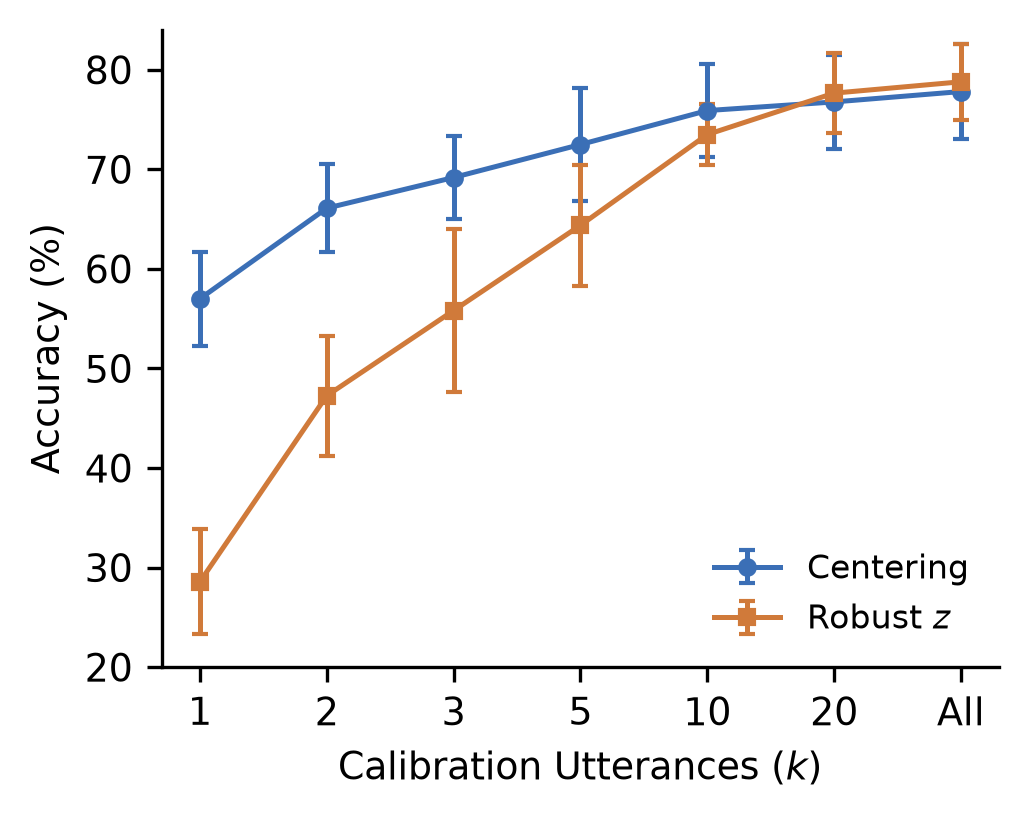
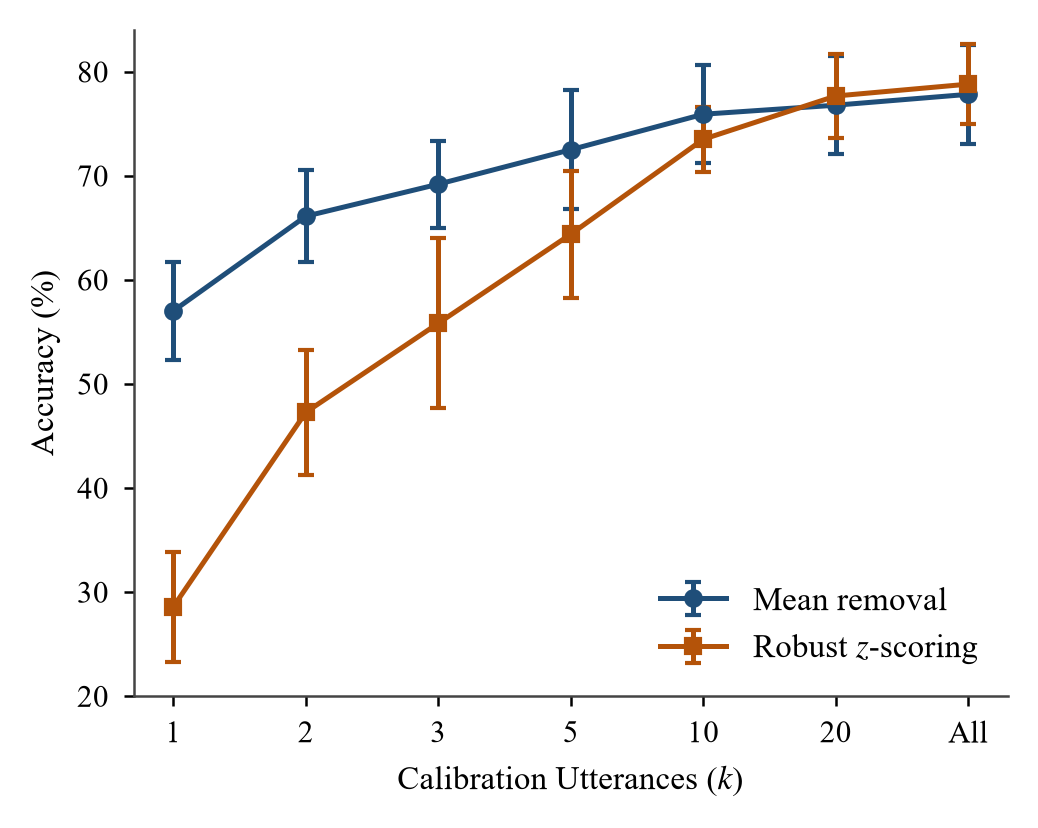
Relabel the calibration legend to the manuscript's vocabulary
The paper calls these operations "mean removal" and "robust z-scoring"; the
figure legend still said "Centering" and "Robust z". Legend only - no data,
style, or layout change, and the overlap check passes.

Changed region(s): [[0.0311, 0.0305, 0.964, 0.9768]]

diff --git a/scripts/make_taslp_figures.py b/scripts/make_taslp_figures.py
@@ -55,7 +55,7 @@ def mean_pct(runs, key="test_acc"):
 
 
 def fig_calibration():
-    """Single-panel deployment calibration: centering vs robust z."""
+    """Single-panel deployment calibration: mean removal vs robust z-scoring."""
     cd = load(os.path.join(RUNS, "fair_deploy_center_only", "fair_deploy.json"))["curve"]
     rd = load(os.path.join(RUNS, "fair_deploy_robust_z", "fair_deploy.json"))["curve"]
     ks = ["1", "2", "3", "5", "10", "20", "all"]
@@ -64,9 +64,9 @@ def fig_calibration():
     ro = [100 * rd[k][0] for k in ks]; re = [100 * rd[k][1] for k in ks]
     fig, ax = plt.subplots(figsize=(3.5, 2.8))
     ax.errorbar(kx, co, yerr=ce, fmt="-o", color=EMA_C, ms=3.5, lw=1.2,
-                capsize=2, label="Centering")
+                capsize=2, label="Mean removal")
     ax.errorbar(kx, ro, yerr=re, fmt="-s", color=ACO_C, ms=3.5, lw=1.2,
-                capsize=2, label="Robust $z$")
+                capsize=2, label="Robust $z$-scoring")
     ax.set_xticks(kx); ax.set_xticklabels(["1", "2", "3", "5", "10", "20", "All"])
     ax.set_xlabel("Calibration Utterances ($k$)")
     ax.set_ylabel("Accuracy (%)")
